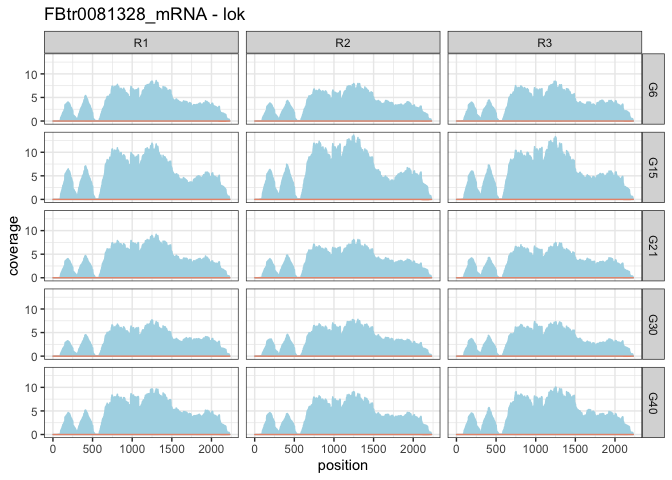
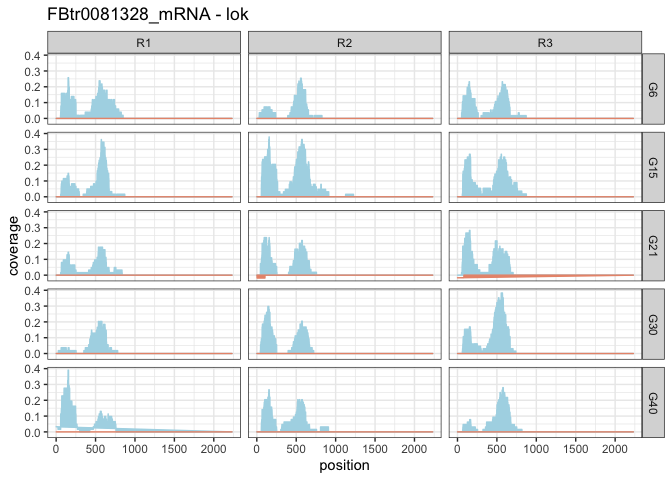
xlim fix, colour changes.

Changed region(s): [[0.0312, 0.0, 0.9375, 1.0], [0.5, 0.0625, 0.5312, 0.0938]]

diff --git a/rna/RNA_analysis.md b/rna/RNA_analysis.md
@@ -1,7 +1,7 @@
 RNA analysis
 ================
 Matthew Beaumont
-2023-06-26
+2023-06-27
 
 ``` bash
 knitr::opts_chunk$set(echo = TRUE)
@@ -282,8 +282,8 @@ ls
 
 # Coverage
 
-We ran the following script to assess coverage of selected genes and the
-P-element.
+We ran the following script to assess coverage of selected gene
+transcripts and the P-element.
 
 ``` bash
 nohup zsh expression-splicing.sh > ../logs/splicing-expression.log
@@ -500,6 +500,9 @@ ggsave("figs/mRNA_sum_stats.png", combined_plot, width = 20, height = 10, dpi = 
 knitr::include_graphics("figs/mRNA_sum_stats.png")
 ```
 
+We then looked at the total expression levels of selected genes across
+all generations for each of the three replicates.
+
 ``` r
 library(ggplot2)
 theme_set(theme_bw())
@@ -508,15 +511,14 @@ genes<-c("PPI251","FBtr0083183_mRNA","FBtr0088034_mRNA","FBtr0086904_mRNA","FBtr
 sc<-c("p-element","spnE","cuff","dcr-2","hen1","krimp","loqs","r2d2","vas",
       "zuc","ago2-RB","armi-RB","aub","del","moon","piwi","tj-RB","rhino","rpl32","qin-RB","lok")
 
-h<-read.table("/Volumes/Data/Projects/dmelR2_p-ele/rna/run2/splicing-expression/expression/expr_wf.forr")        
+h<-read.table("/Volumes/Data/Projects/dmelR2_p-ele/rna/run2/splicing-expression/raw_expression/expr-spli.forr")        
 
 names(h)<-c("rep","time","tissue","strand","gene","pos","cov")
 
 for(i in 1:length(genes))
 {
   target<-genes[i]
-  short<-sc[i]
-  
+
   a<-subset(h,gene==target)
   a$time <- factor(a$time, levels=c("G6", "G15", "G21", "G30","G40"))
   
@@ -531,10 +533,14 @@ mRNA_plot <- ggplot() +
     ylab("coverage")+
     xlab("position")
 
-ggsave("figs/mRNA_overview.png", mRNA_plot, width = 12, height = 6, dpi = 600)
+ggsave("figs/mRNA_overview.png", mRNA_plot, width = 18, height = 6, dpi = 800)
 
 knitr::include_graphics("figs/mRNA_overview.png")
 ```
+
+Then we did the same again but this time looking at the expression
+levels of each of the selected genes individually, still across
+generations for each replicate.
 
 ``` r
 library(ggplot2)
@@ -544,30 +550,27 @@ theme_set(theme_bw())
 genes <- c("PPI251", "FBtr0083183_mRNA", "FBtr0088034_mRNA", "FBtr0086904_mRNA", "FBtr0087984_mRNA", "FBtr0087189_mRNA", "FBtr0080497_mRNA", "FBtr0079489_mRNA", "FBtr0445185_mRNA", "FBtr0080316_mRNA", "FBtr0075559_mRNA", "FBtr0100641_mRNA", "FBtr0080165_mRNA", "FBtr0081502_mRNA", "FBtr0073637_mRNA", "FBtr0080166_mRNA", "FBtr0301669_mRNA", "FBtr0086897_mRNA", "FBtr0085594_mRNA", "FBtr0329922_mRNA", "FBtr0081328_mRNA")
 sc <- c("p-element", "spnE", "cuff", "dcr-2", "hen1", "krimp", "loqs", "r2d2", "vas", "zuc", "ago2-RB", "armi-RB", "aub", "del", "moon", "piwi", "tj-RB", "rhino", "rpl32", "qin-RB", "lok")
 
-h <- read.table("/Volumes/Data/Projects/dmelR2_p-ele/rna/run2/splicing-expression/expression/expr_wf.forr")
+h <- read.table("/Volumes/Data/Projects/dmelR2_p-ele/rna/run2/splicing-expression/raw_expression/expr-spli.forr")
 names(h) <- c("rep", "time", "tissue", "strand", "gene", "pos", "cov")
 
-# Calculate the number of genes
 num_genes <- length(genes)
 
-# Define the number of columns and rows for the grid
 num_cols <- 5
 num_rows <- ceiling(num_genes / num_cols)
 
-# Create a new plot with a custom layout
 plot_new <- function() {
   grid.newpage()
   pushViewport(viewport(layout = grid.layout(num_rows, num_cols)))
 }
 
-# Initialize a counter for the genes
+# Counter for genes
 gene_counter <- 1
 
-plot_new()  # Create the initial plot
+plot_new()  # Initial plot
 
 for (i in 1:num_rows) {
   for (j in 1:num_cols) {
-    # Check if there are more genes to plot
+    # Check for more genes
     if (gene_counter <= num_genes) {
       target <- genes[gene_counter]
       short <- sc[gene_counter]
@@ -598,48 +601,9 @@ for (i in 1:num_rows) {
 
 ![](RNA_analysis_files/figure-gfm/unnamed-chunk-20-1.png)<!-- -->![](RNA_analysis_files/figure-gfm/unnamed-chunk-20-2.png)<!-- -->![](RNA_analysis_files/figure-gfm/unnamed-chunk-20-3.png)<!-- -->![](RNA_analysis_files/figure-gfm/unnamed-chunk-20-4.png)<!-- -->![](RNA_analysis_files/figure-gfm/unnamed-chunk-20-5.png)<!-- -->![](RNA_analysis_files/figure-gfm/unnamed-chunk-20-6.png)<!-- -->![](RNA_analysis_files/figure-gfm/unnamed-chunk-20-7.png)<!-- -->![](RNA_analysis_files/figure-gfm/unnamed-chunk-20-8.png)<!-- -->![](RNA_analysis_files/figure-gfm/unnamed-chunk-20-9.png)<!-- -->![](RNA_analysis_files/figure-gfm/unnamed-chunk-20-10.png)<!-- -->![](RNA_analysis_files/figure-gfm/unnamed-chunk-20-11.png)<!-- -->![](RNA_analysis_files/figure-gfm/unnamed-chunk-20-12.png)<!-- -->![](RNA_analysis_files/figure-gfm/unnamed-chunk-20-13.png)<!-- -->![](RNA_analysis_files/figure-gfm/unnamed-chunk-20-14.png)<!-- -->![](RNA_analysis_files/figure-gfm/unnamed-chunk-20-15.png)<!-- -->![](RNA_analysis_files/figure-gfm/unnamed-chunk-20-16.png)<!-- -->![](RNA_analysis_files/figure-gfm/unnamed-chunk-20-17.png)<!-- -->![](RNA_analysis_files/figure-gfm/unnamed-chunk-20-18.png)<!-- -->![](RNA_analysis_files/figure-gfm/unnamed-chunk-20-19.png)<!-- -->![](RNA_analysis_files/figure-gfm/unnamed-chunk-20-20.png)<!-- -->![](RNA_analysis_files/figure-gfm/unnamed-chunk-20-21.png)<!-- -->![](RNA_analysis_files/figure-gfm/unnamed-chunk-20-22.png)<!-- -->
 
-## Lok - Wilcoxon Test
-
-``` r
-library(ggplot2)
-library(tidyverse)
-```
-
-    ## ── Attaching core tidyverse packages ──────────────────────── tidyverse 2.0.0 ──
-    ## ✔ dplyr     1.1.2     ✔ readr     2.1.4
-    ## ✔ forcats   1.0.0     ✔ stringr   1.5.0
-    ## ✔ lubridate 1.9.2     ✔ tibble    3.2.1
-    ## ✔ purrr     1.0.1     ✔ tidyr     1.3.0
-    ## ── Conflicts ────────────────────────────────────────── tidyverse_conflicts() ──
-    ## ✖ dplyr::filter() masks stats::filter()
-    ## ✖ dplyr::lag()    masks stats::lag()
-    ## ℹ Use the conflicted package (<http://conflicted.r-lib.org/>) to force all conflicts to become errors
-
-``` r
-theme_set(theme_bw())
-
-lok<-read.table("/Volumes/Data/Projects/dmelR2_p-ele/rna/run2/splicing-expression/expression/expr_wf.forr")        
-
-names(lok)<-c("rep","time","tissue","strand","gene","pos","cov")
-a<-subset(lok,gene=="FBtr0081328_mRNA" & strand=="se")
-mc<-a %>% group_by(rep,time) %>% summarise(mcov=mean(cov))
-```
-
-    ## `summarise()` has grouped output by 'rep'. You can override using the `.groups`
-    ## argument.
-
-``` r
-wilcox.test(subset(mc,rep=="R2")$mcov,subset(mc,rep!="R2")$mcov)
-```
-
-    ## 
-    ##  Wilcoxon rank sum exact test
-    ## 
-    ## data:  subset(mc, rep == "R2")$mcov and subset(mc, rep != "R2")$mcov
-    ## W = 25, p-value = 1
-    ## alternative hypothesis: true location shift is not equal to 0
-
 # Splicing & expression visualisation
+
+We first assess the
 
 ``` bash
 #!/bin/bash
@@ -812,9 +776,22 @@ Then we visualise it using ggplot.
 
 ``` r
 library(tidyverse)
+```
+
+    ## ── Attaching core tidyverse packages ──────────────────────── tidyverse 2.0.0 ──
+    ## ✔ dplyr     1.1.2     ✔ readr     2.1.4
+    ## ✔ forcats   1.0.0     ✔ stringr   1.5.0
+    ## ✔ lubridate 1.9.2     ✔ tibble    3.2.1
+    ## ✔ purrr     1.0.1     ✔ tidyr     1.3.0
+    ## ── Conflicts ────────────────────────────────────────── tidyverse_conflicts() ──
+    ## ✖ dplyr::filter() masks stats::filter()
+    ## ✖ dplyr::lag()    masks stats::lag()
+    ## ℹ Use the conflicted package (<http://conflicted.r-lib.org/>) to force all conflicts to become errors
+
+``` r
 library(RColorBrewer)
 theme_set(theme_bw())
-tresrep<-c("#e41a1c", "#377eb8", "#4daf4a")
+tresrep<-c("firebrick", "skyblue3", "chartreuse4")
 
 t <- read_delim("/Volumes/Data/Projects/dmelR2_p-ele/rna/run2/splicing-expression/raw_expression/all-expressionlevel/expr.forr", delim = "\t", col_names = FALSE, comment = "#", show_col_types = FALSE)
 names(t)<-c("replicate","generation","run","gene","rawse","rawase","genlen","sense","antisense","total")
@@ -843,7 +820,7 @@ knitr::include_graphics("figs/P-ele_expression.png")
 library(tidyverse)
 library(RColorBrewer)
 theme_set(theme_bw())
-colrep1<-c("#e41a1c","#377eb8","#4daf4a")
+colrep1<-c("firebrick", "skyblue3", "chartreuse4")
 
 # Annotation
 # PPI251    ensembl exon    153 442 .   +   .   gene_id "pele"; transcript_id "pele1";
@@ -888,7 +865,7 @@ knitr::include_graphics("figs/IVS3.png")
 library(tidyverse)
 library(RColorBrewer)
 theme_set(theme_bw())
-colrep2<-c("#e41a1c","#377eb8","#4daf4a")
+colrep2<-c("firebrick", "skyblue3", "chartreuse4")
 
 # Annotation
 # PPI251    ensembl exon    153 442 .   +   .   gene_id "pele"; transcript_id "pele1";
@@ -934,7 +911,7 @@ knitr::include_graphics("figs/IVS2.png")
 library(tidyverse)
 library(RColorBrewer)
 theme_set(theme_bw())
-colrep3<-c("#e41a1c","#377eb8","#4daf4a")
+colrep3<-c("firebrick", "skyblue3", "chartreuse4")
 
 # Annotation
 # PPI251    ensembl exon    153 442 .   +   .   gene_id "pele"; transcript_id "pele1";
